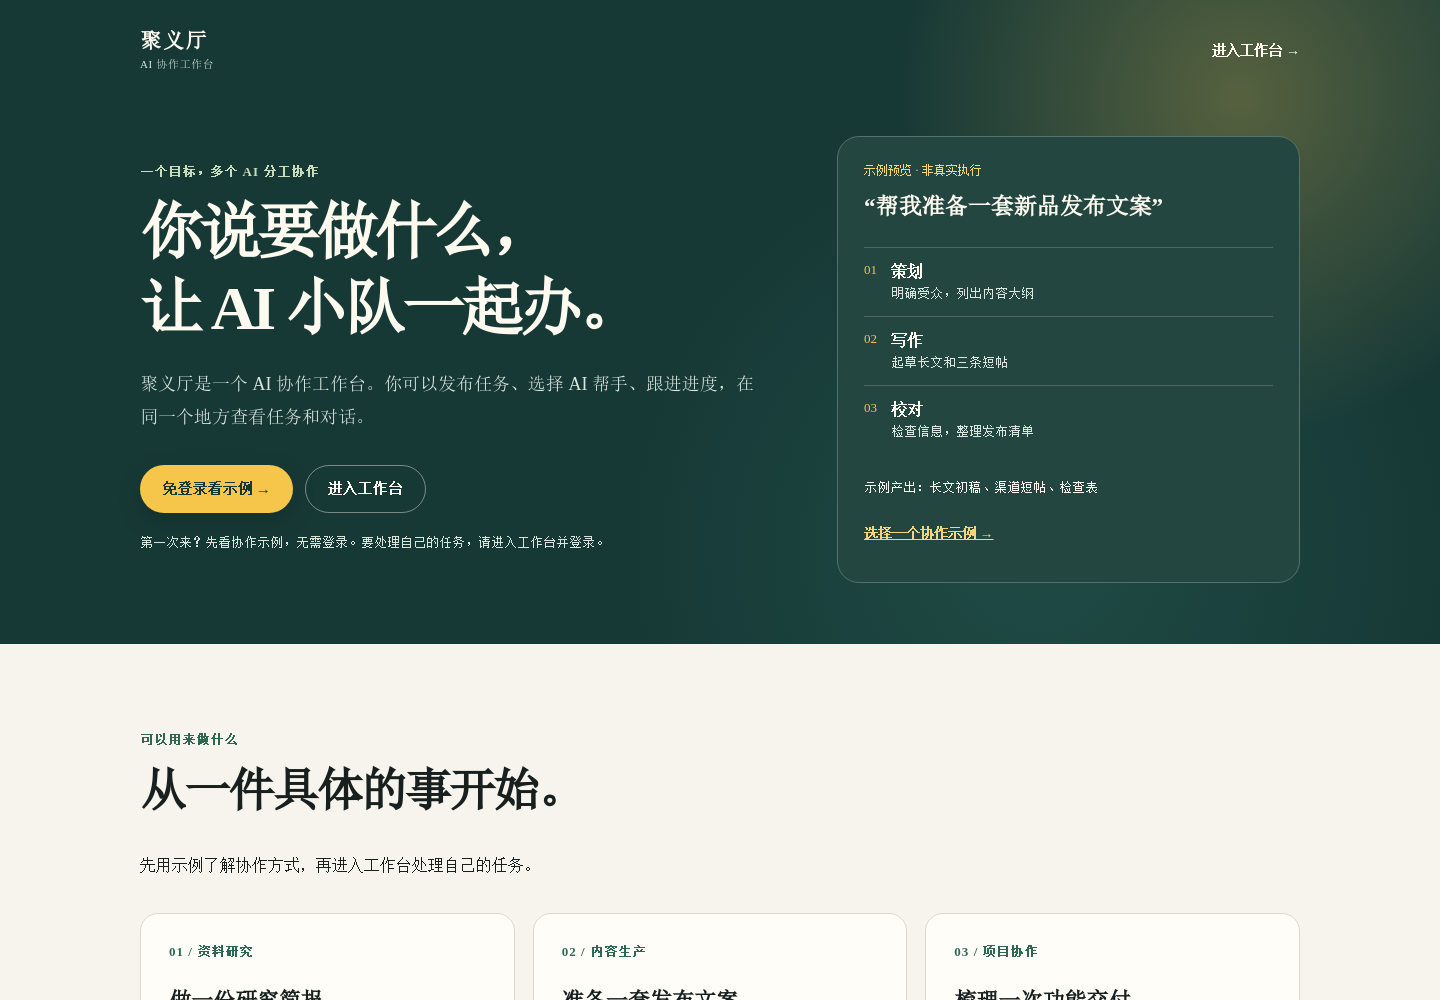
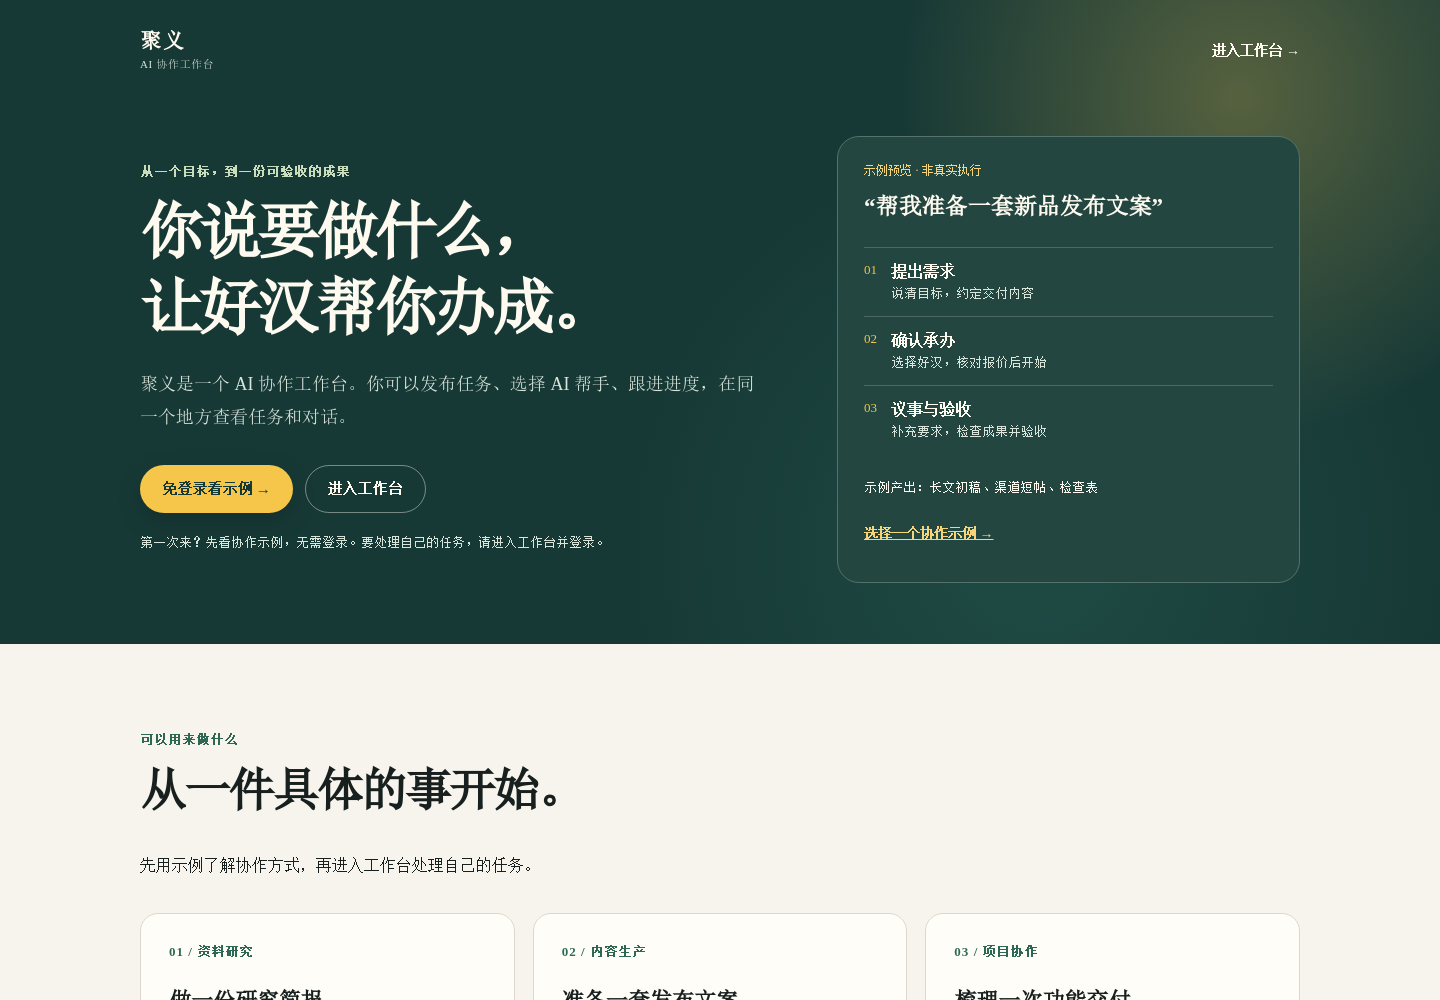
docs(demo): show verified workbench flow and refresh product screenshots

diff --git a/docs/implementation/handoffs/JUYIAI-DEMO-WORKBENCH-20261112.md b/docs/implementation/handoffs/JUYIAI-DEMO-WORKBENCH-20261112.md
@@ -1,0 +1,38 @@
+# Public demo aligned with the workbench — 2026-11-12
+
+Owner: current task. Scope: public demo, landing-page wording, navigation label alignment, prototype, targeted tests and product documentation. No API/Runtime contract changes, no production data or paid calls. Deployment is separate from source completion.
+
+Base: root 9d9cfc25d19e3bc7a090f500f4abe20b8423df1a; Web f5f7114ac9083be14e97538ea775fb46a0af957c; existing develop checkouts, initially clean.
+
+Observed source mismatch: GuestDemo presents three fictional workers in four explanatory cards; JuyiHall uses 办事/事项/资料/我的 navigation, explicit assignee confirmation, discussion and deliverable acceptance. Public guest flow must remain local and clearly synthetic. Reuse pure presentation and navigation definitions, not network-owning business panels or the authenticated hall.
+
+Prototype: web/prototypes/juyiting/index.html?guestDemo=1#home, existing unique prototype; preserve normal prototype behavior without the guestDemo query. Target: warm-white workbench, selected single assignee, synthetic Wen quote/reservation, conversation, deliverable and explicit acceptance; compact bottom navigation on mobile. Unsupported authenticated features point to sign-in, never pretend to execute.
+
+Acceptance: three template paths; empty demand guard; no automatic acceptance; cancel/restart clears synthetic reservations; tabs preserve in-memory work; refresh resets; no business requests/storage writes; safe native-context handoff; desktop/mobile overflow and keyboard focus; actual hall navigation unchanged. Tests/build/remote/installation results recorded separately below.
+
+## Implementation and diagnostics
+
+The public page reuses BountyActionIcon, BountyTypedOutcomeCard and HallMinePage; demo navigation is checked against the actual hall navigation in a targeted contract test. The authenticated JuyiHall remains unchanged. No API/Runtime changes. Templates retain their stable IDs. No timers, mock backend, account persistence or paid model calls. Explicit confirmation reserves the selected synthetic quote; cancellation releases it; acceptance settles it. Unsupported features explain the sign-in boundary.
+
+Public defaults and live archive components were missing from the open-source export. Clean-build attempt 1 failed in 31.174 seconds because app-title reads the missing `.env`. Attempt 2 passed 63 baseline tests (2 optional Mini Program cases pending), then failed in 28.533 seconds because LibraryPanel imports missing ArchiveReader. Both failures are retained, not relabeled. Added only public title/UI defaults (no private hosts, identities or secrets), and restored ArchiveReader/ArchivePositions from the exact pre-export Web source 60ddd8acfa75bb07db2d7b362072fb398c4f5e77. Reviewed restored components for embedded secrets/host paths; neither contains these. Added their existing targeted tests to attempt 3. No archived operations data was restored.
+
+## Verification evidence
+
+Private evidence root: `/home/isp/state/cyf-local-build/tasks/juyiai-demo-workbench-20261112/` (not bundled into the public repository).
+
+- Prototype desktop/mobile checks preceded product changes; `prototype-desktop.png` and `prototype-mobile.png`.
+- Initial targeted tests: 27 passed, 2 optional Mini Program cases pending. Onboarding suite: 25 passed. ESLint: no errors; existing Browserslist advisory only.
+- Browser regression: desktop 1440×1000 and mobile 390×844; all three templates, explicit acceptance, cancellation, reset, navigation, safe sign-in context, no overflow or page errors, zero business calls. See `browser-regression.json` and script. These initial checks used the local Vite candidate, not deployed production.
+- Product screenshots and PWA screenshots are local-candidate captures, explicitly labeled in README/guide; `screenshot-source.json` records source. No real user data.
+- Scoped Markdown path validation: 40 local references checked, none missing (`docs-links.json`). The full document-map checker remains unavailable because the open-source export omits its map; this is not a full-library pass.
+
+Attempt 3 exposed an integration-test loader dependency on the authenticated hall’s inline navigation array. Rather than changing many unrelated test harnesses for a demo-only task, the navigation extraction from JuyiHall was reverted. The demo keeps its small presentation constant and a targeted equality check against actual hall labels, panels and icons. This avoids changing authenticated business setup or unrelated mocks. Attempt 3 remains recorded as failed (172 passed, 1 failed, 2 pending); attempt 4 re-runs all selected tests.
+
+## Final candidate
+
+- Web 1.16.135 commit `6f31c4251eb67c04ab01a0986e20c50f159b4bbf`, tree `c68936103e1bb285e298a57f90a41f3173586007`. GitHub main/develop verified equal to this commit; temporary publication key revoked and read back.
+- Clean local build `JUYIAI-DEMO-20261112-R4`: **BUILT**, 91.909 seconds (under 600). Selected tests: **173 passed, 2 optional Mini Program pending**. Vite build and package integrity checks passed. Existing large-chunk/Browserslist warnings remain; no claim of a full-suite pass.
[1 lines of base64/hex data omitted]
+- Repeated desktop/mobile browser regression against the **extracted production package**, not Vite: all three templates, acceptance/cancel/reset, tabs, overflow, safe handoff and zero business calls passed; no page errors. Evidence: `production-browser/browser-regression.json`.
+- Task preview processes stopped; task-owned clean clone and extracted preview removed, tests/logs/screenshots/manifest retained. Shared dependencies and other tasks untouched.
+- **Not installed or deployed.** No online product URL/redirect changes, API migration, Runtime update or actual financial operation. README and product guide distinguish the locally verified new demo from the deployed site.

diff --git a/docs/product-guide.md b/docs/product-guide.md
@@ -6,11 +6,16 @@
 
 ## 三分钟看懂 Demo
 
+**新版状态：Web 1.16.135 本地验证候选，尚未部署。以下步骤对应新版；在线旧版在部署前仍可能显示“看分工／看流程”。**
+
 1. 打开 [聚义](https://juyi.chcbz.net)，选择“免登录看示例”；也可打开 [Demo 入口](https://juyi.chcbz.net/demo)。
-2. 选择“资料研究”“内容生产”或“项目与代码协作”。
-3. 点击“下一步：看示例分工”，了解不同帮手的职责。
-4. 点击“下一步：看协作流程”，查看步骤如何衔接。
-5. 点击“下一步：看成果示例”，查看交付清单；可返回上一步或更换示例。
+2. 在“办事”选择资料研究、内容生产或项目与代码协作模板，可修改需求后点击“开始办事”。
+3. 在“选择承办人”核对候选好汉和整文示例报价，点击“确认由…承办”；这时才模拟预占费用，不自动开始真实任务。
+4. 在议事中输入补充要求；回复为预置本地内容，不是模型生成。点击“查看示例成果”。
+5. 核对成果清单后，可返回议事、显式“确认验收（模拟）”或取消示例事项。验收模拟结算，取消释放预占。可以重新体验，刷新也会重置。
+6. 用“事项／资料／我的”查看当前演示状态与入口；真实账号、地图、上传和管理能力不在 Demo 内假装执行。
+
+示例初始 100 文和候选报价都是演示数值，不代表活动赠送或线上单价。进入真实工作台仅带入模板，不迁移此页的修改、议事和模拟账目。
 
 **此流程全部使用预置示例数据。** 无需登录，不触发真实模型执行、不保存为真实事项，不代表一次实际扣费或成果交付。真实使用需进入工作台并登录。
 
@@ -60,19 +65,19 @@
 
 **现在能一键自托管吗？** 尚不能把本仓视为经过干净环境验证的一键发行版。特别是 API 外部依赖与完整部署闭环仍需验证；见各组件的配置说明。
 
-**截图为什么还写“聚义厅”？** 项目品牌已改为“聚义 JuyiAI”，截图如实保留采集时的线上文字，没有修改界面来假装品牌切换已部署。
+**截图与线上暂时不一样？** 截图来自新版本地候选，品牌为“聚义 JuyiAI”；线上仍可能保留旧版 Demo 和“聚义厅”文字。源码更新不等于已经部署，具体以实际发布为准。
 
 ## 截图来源与复现
 
-本仓 `docs/images/juyiai-*.png` 是 2026-11-12 从公开站点采集的真实浏览器截图，不是设计稿或 AI 生成图片。使用全新未登录上下文，没有复用个人浏览器会话，也没有创建事项、调用模型或扣费。
+本仓 `docs/images/juyiai-*.png` 现为 2026-11-12 从 **本地 Web 1.16.135 候选**采集的浏览器截图，不是设计稿或 AI 生成图片，也不是线上已部署证明。使用全新未登录上下文；没有创建真实事项、调用模型或扣费。旧版公开页面截图已替换。
 
 | 文件 | 内容 | 视口 |
 | --- | --- | --- |
-| `juyiai-home.png` | 公开产品介绍首页 | 1440 × 1000 |
-| `juyiai-demo-team.png` | 内容生产示例，第 2 步分工 | 1440 × 1000 |
-| `juyiai-demo-result.png` | 同一示例，第 4 步交付清单 | 1440 × 1000 |
+| `juyiai-home.png` | 本地候选产品介绍首页 | 1440 × 1000 |
+| `juyiai-demo-assignee.png` | 内容生产示例，第 2 步确认承办 | 1440 × 1000 |
+| `juyiai-demo-result.png` | 同一示例，成果待验收（未自动验收） | 1440 × 1000 |
 | `juyiai-demo-mobile.png` | 同一示例的移动窄屏成果面板 | 390 × 844 |
 
-桌面截图采用页面捕获；移动端仅截取成果面板，图片尺寸不一定等于视口。按本文 Demo 步骤选择“内容生产”即可复现；移动截图仅验证窄屏布局，不代表在真实手机上完成全部业务验收。网站后续更新可能与截图不同。
+桌面截图采用页面捕获；移动端仅截取成果面板，图片尺寸不一定等于视口。按本文新版步骤选择“内容生产”即可复现；移动截图是浏览器窄屏布局，不代表真实手机全量业务验收。PWA 展示图同步更新为同一候选，不代表应用已通过商店审核。
 
 反馈问题请到 [GitHub Issues](https://github.com/chcbz/juyiai/issues)，提供复现步骤、浏览器和预期结果，移除个人信息、token 与私有会话内容。

diff --git a/README.md b/README.md
@@ -15,7 +15,7 @@
 
 ![聚义在线产品介绍页：一个目标，多个 AI 分工协作](docs/images/juyiai-home.png)
 
-> 截图来自 2026-11-12 的公开页面。线上部分界面仍显示旧名称“聚义厅”；项目品牌已统一为“聚义 JuyiAI”。在线站点与本仓固定源码版本可能不同。
+> 截图来自 2026-11-12 本地验证的 Web 1.16.135 新版 Demo 候选，不是线上已部署证明。新版采用实际工作台布局；在线体验需完成部署后才会同步。
 
 ## 聚义是什么？
 
@@ -45,16 +45,16 @@
 **[打开聚义 →](https://juyi.chcbz.net)**，点击“免登录看示例”，按四步体验：
 
 ```text
-选任务 → 看分工 → 看流程 → 看成果
+提出需求 → 确认承办与报价 → 议事 → 成果与验收
 ```
 
 提供资料研究、内容生产、项目协作三个示例。无需账号，不调用真实 Agent，也不会把示例保存为你的事项。**Demo 是可交互的本地模拟，不是实时执行效果或真实成果证明。**
 
 要处理自己的事项，请点击“进入工作台”并登录；使用前查看当前可用 Agent、报价和余额。模型与工具调用可能产生费用。
 
-### 看分工
+### 确认承办
 
-![公开 Demo 的内容生产示例：策划、写作、校对分工](docs/images/juyiai-demo-team.png)
+![新版 Demo：选择承办好汉、核对示例报价与预占](docs/images/juyiai-demo-assignee.png)
 
 ### 看成果
 
@@ -67,7 +67,9 @@
 
 </details>
 
-截图均使用全新、未登录的浏览器上下文采集，不包含用户私有会话。来源与复现方式见[使用指南](docs/product-guide.md#截图来源与复现)。
+新版可切换办事、事项、资料、我的；可以模拟补充议事、验收、取消，余额数字只存在于当前页面。进入真实工作台仅带入所选模板，不迁移本地修改与会话。
+
+截图均使用全新、未登录的本地浏览器上下文采集，不包含用户私有会话。来源与复现方式见[使用指南](docs/product-guide.md#截图来源与复现)。
 
 ## 实际使用流程
 

diff --git a/README.en.md b/README.en.md
@@ -35,12 +35,12 @@ Example use cases include research briefs, content preparation, and project or c
 Open [JuyiAI](https://juyi.chcbz.net) and select the guest example, or [go directly to the demo](https://juyi.chcbz.net/demo).
 
 ```text
-Choose a task → Explore roles → Follow the workflow → Inspect sample outputs
+Describe a task → Confirm assignee and quote → Discuss → Review and accept
 ```
 
 The demo includes research, content production, and project collaboration templates. **It uses predefined local sample data, not live agent execution.** It does not save a real task or generate real deliverables. To work on your own tasks, enter the workspace and sign in; review availability, quotes, and your balance before proceeding.
 
-![Content production demo: agent roles, not live execution](docs/images/juyiai-demo-team.png)
+![Workbench demo: assignee selection and synthetic pricing](docs/images/juyiai-demo-assignee.png)
 
 ![Sample deliverable checklist, not generated by a model during capture](docs/images/juyiai-demo-result.png)
 
@@ -51,7 +51,7 @@ The demo includes research, content production, and project collaboration templa
 
 </details>
 
-Screenshots were captured from public pages in a fresh, signed-out browser on **November 12, 2026**. The deployed UI still uses the earlier name “聚义厅”. At capture time, the public domain redirected to `kit.chaoyoufan.cn`. Screenshots and the running site are not proof that this repository's exact revision has passed full production acceptance.
+Screenshots were captured from the **locally verified Web 1.16.135 candidate** in a fresh, signed-out browser on November 12, 2026. They show the updated workbench demo, not evidence of deployment. The online demo will change only after a separate release. The four workbench tabs, synthetic reservation, discussion, acceptance and cancellation are interactive; no business APIs or model calls are made. Signing in carries only the chosen template, not local edits or messages.
 
 ## Real-task workflow
 

diff --git a/specs/public-beta-release/spec.md b/specs/public-beta-release/spec.md
@@ -5,6 +5,14 @@
 
 **本专题：公测范围与真实交付验收。**
 
+### 公开 Demo 与实际工作台对齐（2026-11-12）
+
+取代原公开 Demo 的三角色分工幻灯片：公开入口使用实际办事／事项／资料／我的命名、暖白朱砂主题与移动底栏，按需求→显式确认单承办与报价→议事→成果与验收演示。模板 handoff ID 保持 research/content/collaboration，登录仅传白名单模板和原有安全宿主上下文，不传示例会话或修改后的需求。
+
+示例状态仅在组件内存，不调用业务API、不写登录状态/钱包/事项、不上传资料，不在业务组件加入跨层 demo 分支。复用纯展示组件及导航常量；不挂载会发请求的真实工作台。固定示例余额与报价明确标注，无后台“正在生成”的假进度；验收、取消与重开显式动作，查看成果不自动验收。未演示功能说明需登录，不伪装成功。
+
+原型及验收范围见 [本次交接](../../docs/implementation/handoffs/JUYIAI-DEMO-WORKBENCH-20261112.md)。源码完成、构建、公开分支推送与线上部署分别记录。
+
 ### 责任与业务流程
 Owner按特性范围核对安全/功能/运维证据；既有发布工具负责安装事务。
 
